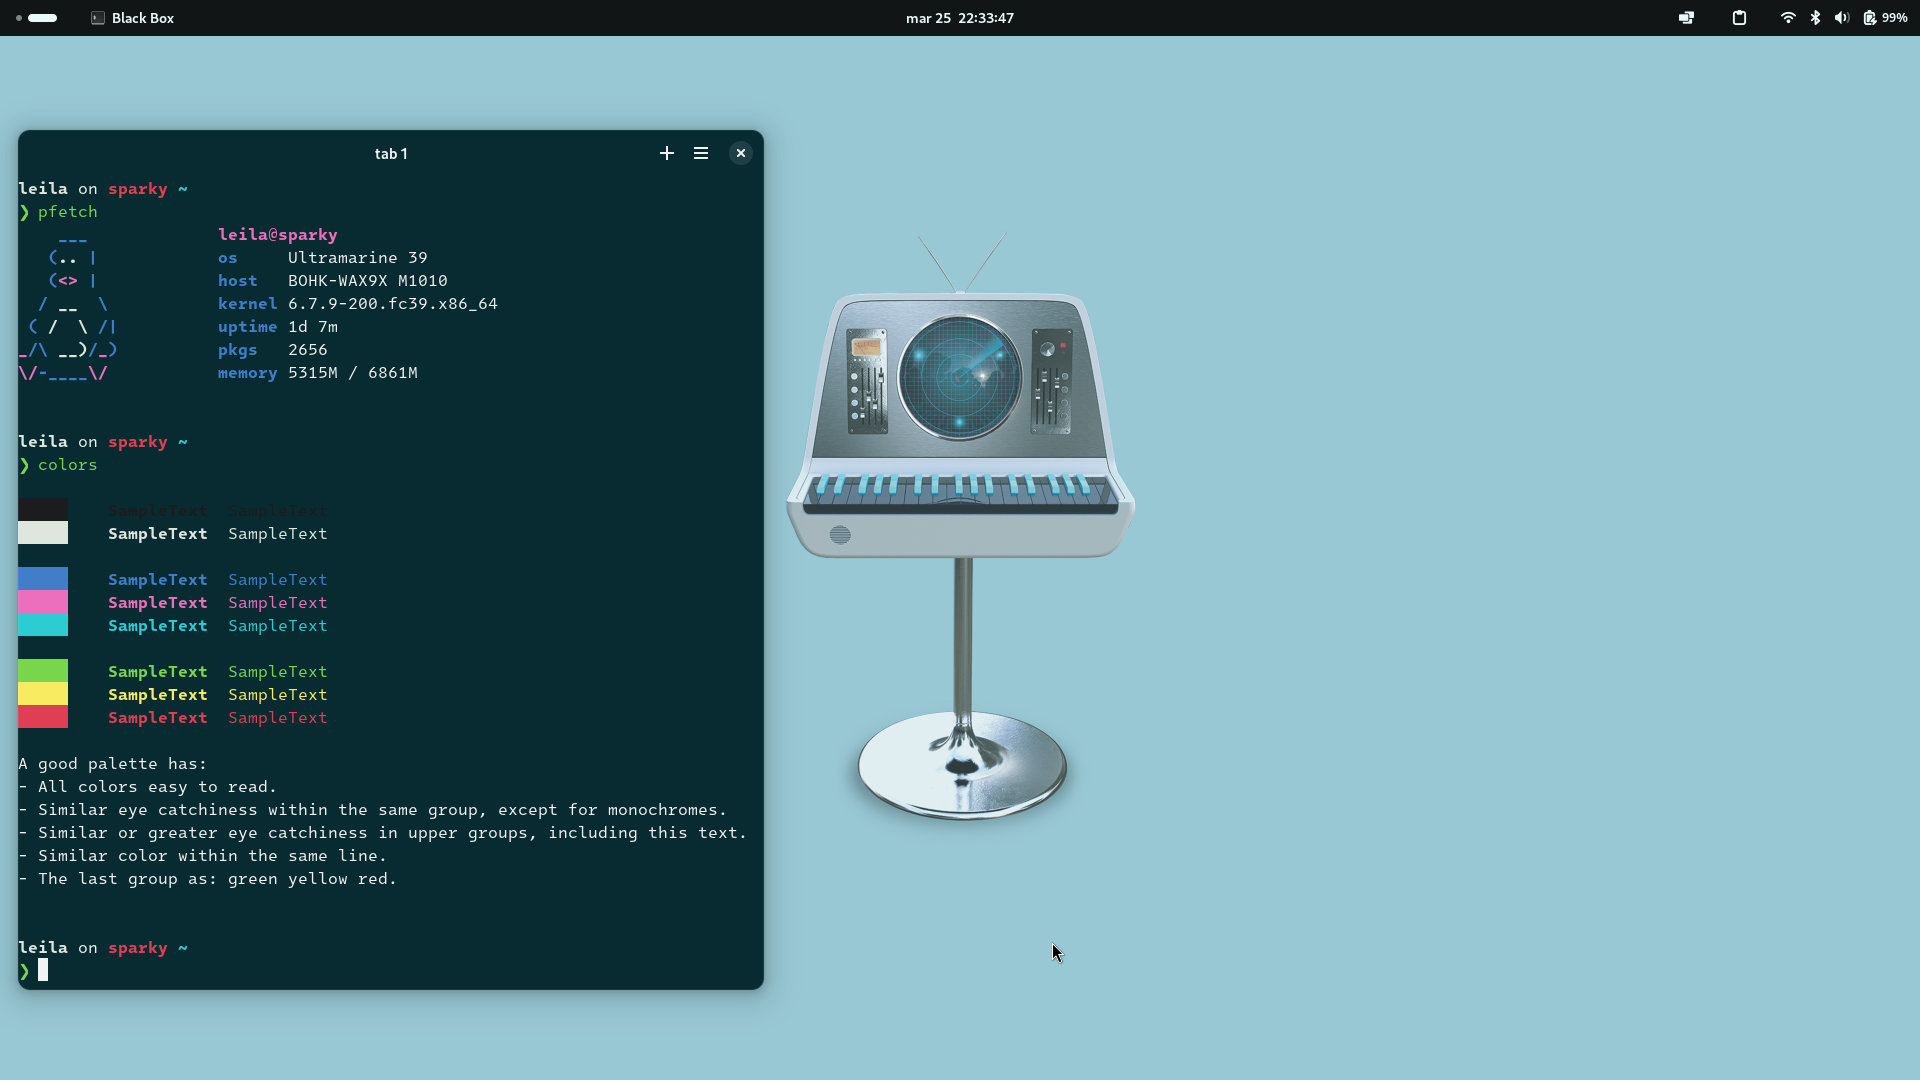
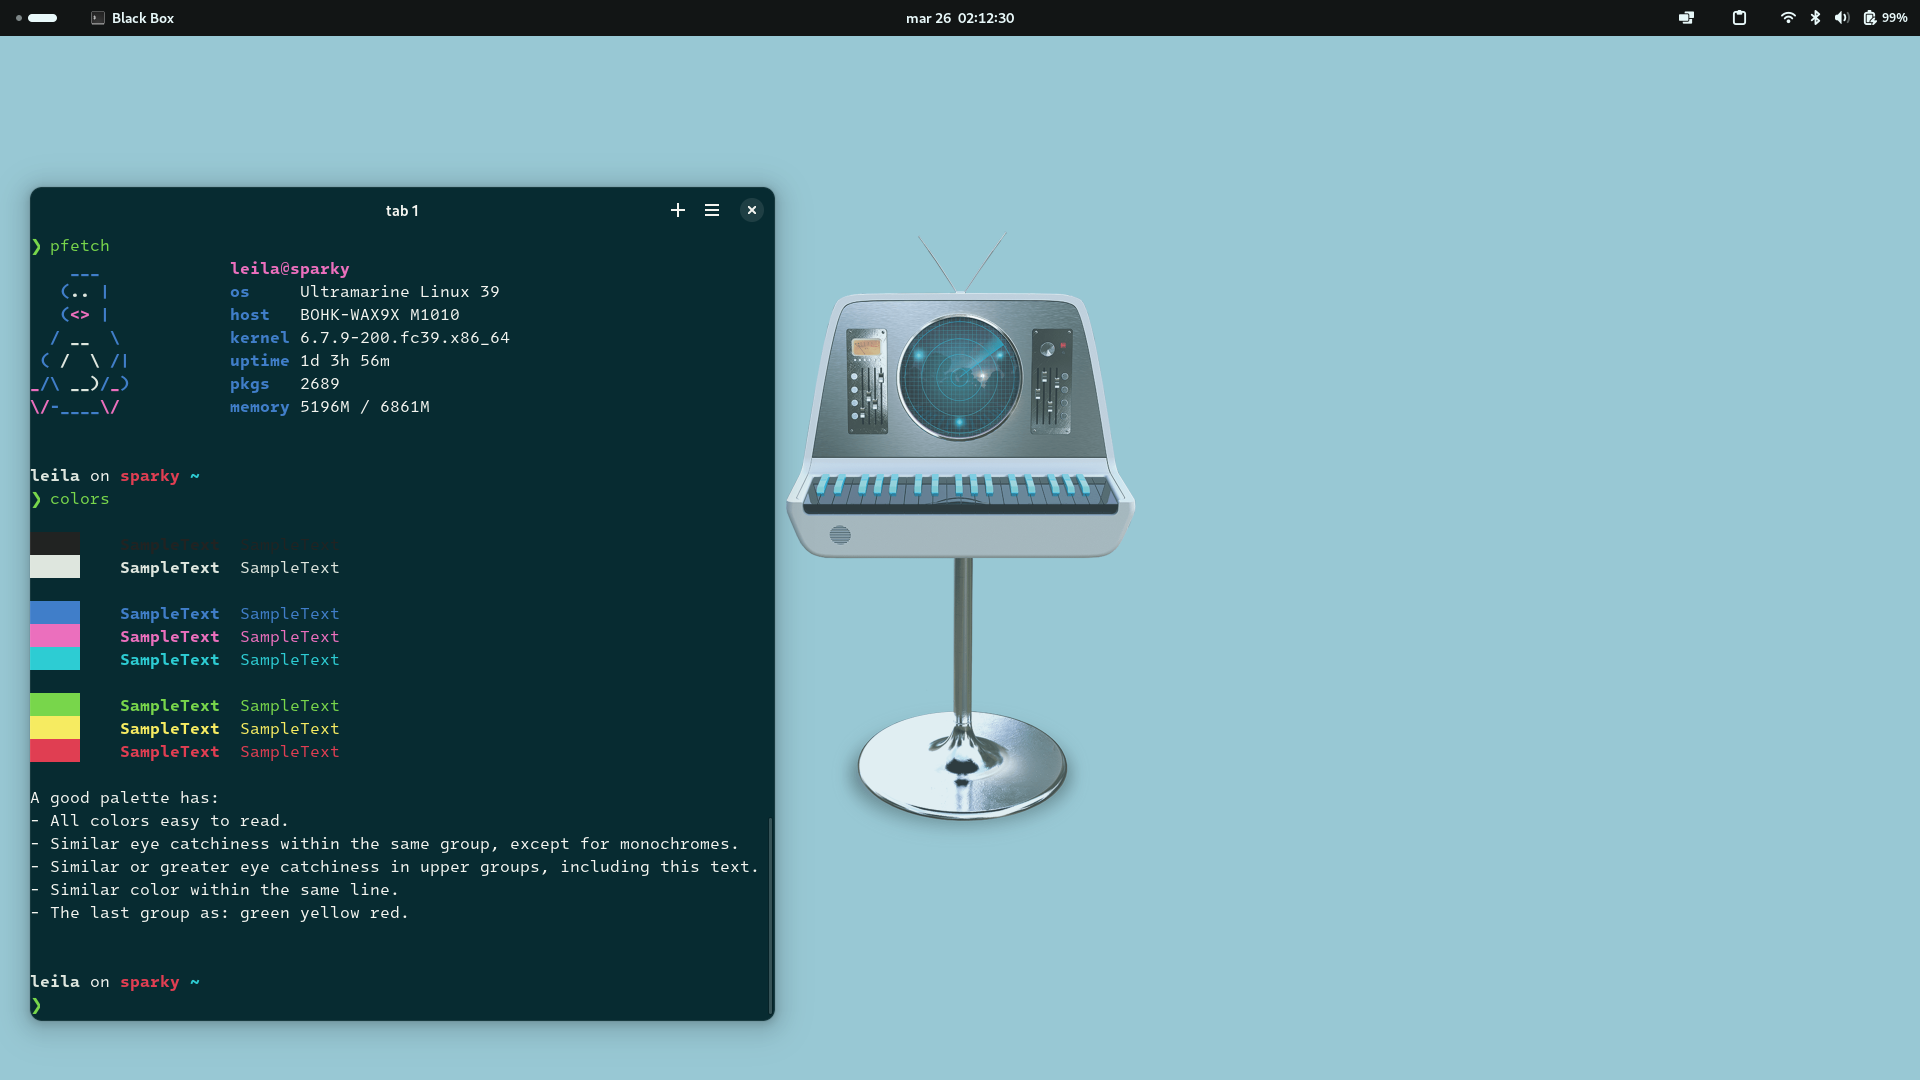
Made 8-15 be dark versions and fully PMS theme

Changed region(s): [[0.0, 0.0917, 0.4062, 0.9778], [0.0938, 0.2139, 0.25, 0.3972], [0.5, 0.0, 0.5312, 0.0306]]

diff --git a/README.md b/README.md
@@ -22,5 +22,6 @@ Reasoning for this is that copyrighting a set of colours is, to say the very lea
 ## Credits
 This theme was possible thanks to the following themes and people:
 - [Adobe Color](https://color.adobe.com/) - for its colour blind safety checks and palette tests
+- [Code Beautify's HEX to Pantone converter](https://codebeautify.org/hex-to-pantone-converter) - for being the only good HEX to PMS converter
 - [terminal.sexy](https://terminal.sexy/) - for developing an awesome test UI and export system
 - [@maisymoe](https://github.com/maisymoe) - for getting me into Enter Shikari, and for saving my life, cheers

diff --git a/src/README.md b/src/README.md
@@ -78,9 +78,6 @@ mv sparky.json ~/.var/app/com.raggesilver.BlackBox/data/blackbox/schemes/
 ## XFCE4 Terminal
 Copy `sparky.theme` to `~/.local/share/xfce4/terminal/colorschemes/`.
 
-## XShell
-If you use this obscure as fuck thing, you probably already know how.
-
 ## XResources
 There are multiple ways to install Sparky for XResources, you can either do it:
 
